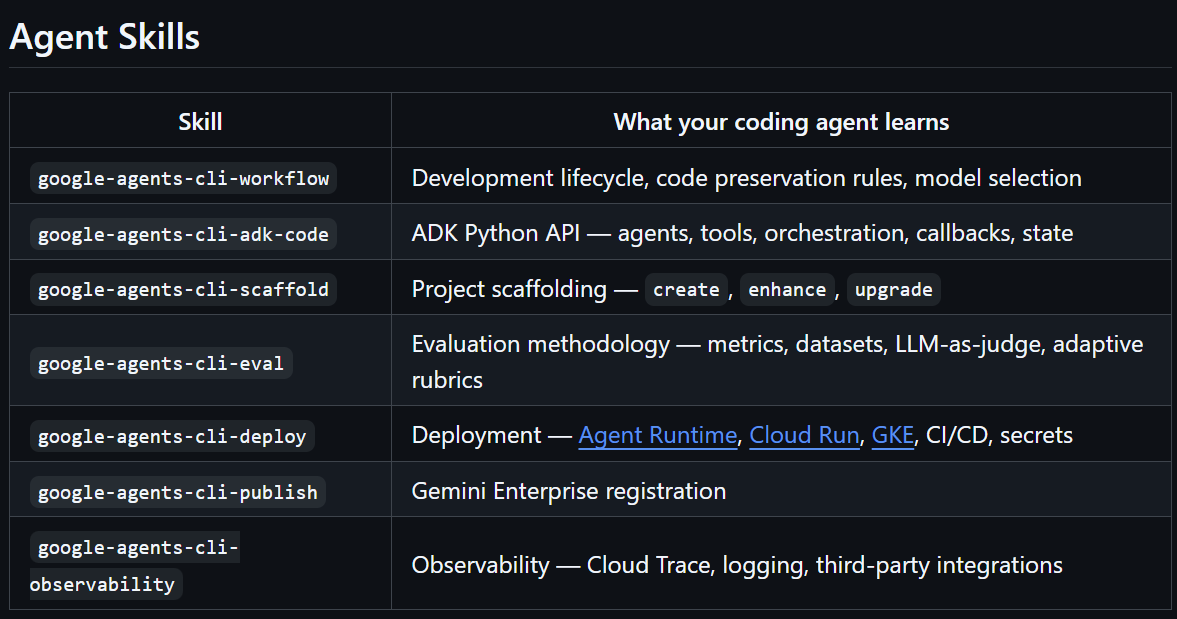
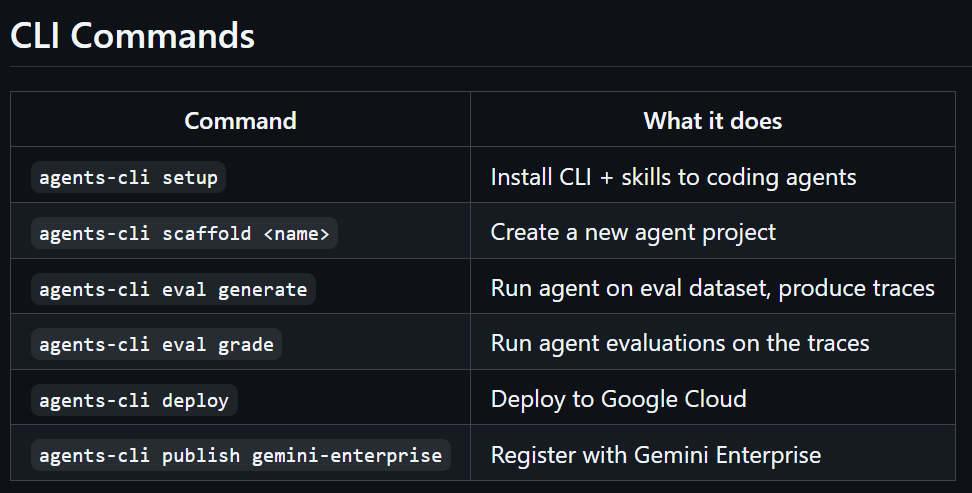
blog part 2 done

diff --git a/docs/blog/part_2_dev_env.md b/docs/blog/part_2_dev_env.md
@@ -1,6 +1,8 @@
 # FinSavant Part 2: Building an Agentic FinOps Platform - Development Environment Setup, Google Antigravity, MCPs and Skills, and ADK Bootstrapping with Agents CLI
 
-**TL;DR - This article is going to be jam-packed with useful information, tips, tricks and hacks for setting up an agentic development in the Google ecosystem. Let's get cracking!**
+**TL;DR - This article is going to be jam-packed with useful information, tips, tricks and hacks for setting up an agentic development in the Google ecosystem.**
+
+This one isn't really about the Fin Ops!
 
 ## Welcome to Part 2
 
@@ -8,9 +10,9 @@
 
 Welcome back, friends!
 
-In the [first part](https://medium.com/google-cloud/finsavant-part-1-building-an-agentic-finops-platform-with-google-adk-a2ui-and-gemini-enterprise-248f59cea3a0) I described the purpose of the [FinSavant](https://github.com/derailed-dash/smart-gcp-finops) FinOps solution, the motivation for creating it, its overall architecture and tech stack, and how it works.
+In the [first part](https://medium.com/google-cloud/finsavant-part-1-building-an-agentic-finops-platform-with-google-adk-a2ui-and-gemini-enterprise-248f59cea3a0), I described the purpose of the [FinSavant](https://github.com/derailed-dash/smart-gcp-finops) FinOps solution, the motivation for creating it, its overall architecture and tech stack, and how it works.
 
-In this part we'll use _FinSavant_ as a case study in **how to set up a development environment** for the purposes of building such an ADK-based agentic solution. **Even if you're not particularly interested in _FinSavant_ itself, I hope you'll find a bunch of useful information and tips here that will help you build your own agentic solutions more effectively and quickly.**
+In this part, we'll use _FinSavant_ as a case study in **how to set up a development environment** for the purposes of building such an ADK-based agentic solution. **Even if you're not particularly interested in _FinSavant_ itself, I hope you'll find a bunch of useful information and tips here that will help you build your own agentic solutions more effectively and quickly.**
 
 We'll cover:
 
@@ -41,11 +43,9 @@ Let's see where we are in this series.
 
 These days, my favourite coding environment _for any significant project_ is Antigravity IDE. This is Google's _agent-first_ integrated development environment. You get a look-and-feel that's familiar to VS Code users, but powered with autonomous, context-aware agents that can plan, execute, verify, and work in parallel.
 
-You can get it [here](https://antigravity.google/product/antigravity-ide).
+You can get it [here](https://antigravity.google/product/antigravity-ide?utm_campaign=DEVECO_GDEMembers&utm_source=deveco).
 
-(I often refer to Antigravity as _Agy_.)
-
-By the way, Agy IDE is just one member of the Agy suite. 
+By the way, Antigravity IDE is just one member of the Antigravity (aka Agy) suite. 
 
 ![The Antigravity Suite](../images/agy-suite-all.jpg)
 
@@ -54,7 +54,7 @@ I've covered these before, but here's a quick reminder of the four Agy solutions
 - **Antigravity 2.0**, which is now the dedicated agent-first “builder” environment on your desktop. Notably, it doesn’t itself include an IDE. Instead, we now interact only with the agent manager. This surface aims to usher in the era of “idea to product” using agents, without concerning ourselves over the code. Many builders who don’t come from a coding background will love this.
 - **Antigravity IDE**, which gives us the more familiar VS Code-esque coding environment, supported by the Antigravity agent harness. Here we can do agent-assisted development, and we always see the code. Coders will feel at home here.
 - **Antigravity SDK**, which gives you the harness and tools that power Antigravity, but exposed as a Python Agent SDK. By importing from google.antigravity we can programmatically leverage Antigravity’s capabilities.
-- **Antigravity CLI**, which is the next evolution of the the extremely awesome Gemini CLI. It’s still a terminal-first environment for interacting with Gemini models. But the new Antigravity CLI is built in Go, and you can tell; it feels much faster than Gemini CLI, both during startup and in general use. It leverages the same agent “harness” as Antigravity 2.0 and the IDE, and this allows for common settings and configuration across the Antigravity suite.
+- **Antigravity CLI**, which is the next evolution of the extremely awesome Gemini CLI. It’s still a terminal-first environment for interacting with Gemini models. But the new Antigravity CLI is built in Go, and you can tell; it feels much faster than Gemini CLI, both during startup and in general use. It leverages the same agent “harness” as Antigravity 2.0 and the IDE, and this allows for common settings and configuration across the Antigravity suite.
 
 ## Project Structure
 
@@ -103,6 +103,7 @@ If you wanted to build such a structure from scratch, here's a cool thing to try
 1. Create your new project folder, e.g. `my-cool-project`
 1. Open that folder in Antigravity IDE.
 1. Supply this prompt to the Agy Agent:
+
    ```/grill-me Using this folder tree as a template, create the 
    required folder structure in this workspace for my new Python project.
    Only create folders and files that are marked as '*'. 
@@ -110,12 +111,12 @@ If you wanted to build such a structure from scratch, here's a cool thing to try
    << paste the tree structure here >>
    ```
 
-Why `/grill-me`?  This is a built-in Agy command that causes the agent to ask questions to remove ambiguity. If you were to give the agent a slightly vague prompt without this prefix, then the agent might make some guesses about what you want. But with `/grill-me`, the agent will still make educated guesses, but it will also ask you questions to clarify your intent.
+Why `/grill-me`? This is a built-in Agy command that causes the agent to ask questions to remove ambiguity. If you were to give the agent a slightly vague prompt without this prefix, then the agent might make some guesses about what you want. But with `/grill-me`, the agent will still make educated guesses, but it will also ask you questions to clarify your intent.
 
 The prompt above is a good example of where this is useful. You'll notice that my project tree has a `LICENSE.md` file, which is a standard component to include in open-source projects. But my prompt doesn't specify which license to use. So when you use `/grill-me`, the agent will offer sensible license choices based on your project and context, and ask you to confirm.
 
 This video demonstrates Agy scaffolding the entire project from scratch, in response to the prompt above:
-[![Agy Scaffolding Demo](https://img.youtube.com/vi/DmnBHilRjOo/maxresdefault.jpg)](https://youtu.be/DmnBHilRjOo)
+[![Agy Scaffolding Demo](https://img.youtube.com/vi/DmnBHilRjOo/maxresdefault.jpg)](https://youtu.be/DmnBHilRjOo?utm_campaign=DEVECO_GDEMembers&utm_source=deveco)
 
 Give it a go!
 
@@ -214,10 +215,10 @@ You should read and leverage these resources for guidance and best practices, in
 
 | Resource | Description and Relevance |
 | -------- | ------------------------- |
-| https://docs.cloud.google.com/bigquery/docs/use-bigquery-mcp | Use the BigQuery MCP server | 
-| https://adk.dev/integrations/bigquery/ | BigQuery tool for ADK |
-| https://docs.cloud.google.com/gemini-enterprise-agent-platform | Gemini Enterprise Agent Platform Overview |
-| https://adk.dev/deploy/agent-runtime | ADK with Agent Runtime |
+| https://docs.cloud.google.com/bigquery/docs/use-bigquery-mcp?utm_campaign=DEVECO_GDEMembers&utm_source=deveco | Use the BigQuery MCP server | 
+| https://adk.dev/integrations/bigquery/?utm_campaign=DEVECO_GDEMembers&utm_source=deveco | BigQuery tool for ADK |
+| https://docs.cloud.google.com/gemini-enterprise-agent-platform?utm_campaign=DEVECO_GDEMembers&utm_source=deveco | Gemini Enterprise Agent Platform Overview |
+| https://adk.dev/deploy/agent-runtime?utm_campaign=DEVECO_GDEMembers&utm_source=deveco | ADK with Agent Runtime |
 [skipping for brevity]
 
 ## Other Notes
@@ -255,7 +256,7 @@ Use maintaining-core-documentation to bootstrap my project documentation.
 
 Check out this video to see the skill doing its magic!
 
-[![Documentation Skill Demo](https://img.youtube.com/vi/fvT_GJ4LPhE/maxresdefault.jpg)](https://youtu.be/fvT_GJ4LPhE)
+[![Documentation Skill Demo](https://img.youtube.com/vi/fvT_GJ4LPhE/maxresdefault.jpg)](https://youtu.be/fvT_GJ4LPhE?utm_campaign=DEVECO_GDEMembers&utm_source=deveco)
 
 As you evolve your project, this skill will automatically maintain your documentation.
 
@@ -263,8 +264,8 @@ As you evolve your project, this skill will automatically maintain your document
 
 I've previously written about [some of my favourite MCP servers](https://medium.com/google-cloud/dialling-our-agents-to-11-my-favourite-mcp-servers-9549c1442a5e). There are only a couple that we'll need for this project:
 
-- [Google BigQuery Remote MCP Server](https://docs.cloud.google.com/bigquery/docs/use-bigquery-mcp)
-- [ADK Docs MCP](https://adk.dev/tutorials/coding-with-ai/#adk-docs-mcp-server)
+- [Google BigQuery Remote MCP Server](https://docs.cloud.google.com/bigquery/docs/use-bigquery-mcp?utm_campaign=DEVECO_GDEMembers&utm_source=deveco)
+- [ADK Docs MCP](https://adk.dev/tutorials/coding-with-ai/?utm_campaign=DEVECO_GDEMembers&utm_source=deveco#adk-docs-mcp-server)
 
 Note that we won't be using either of these in the _FinSavant_ agent itself. These are purely to help us during development.
 
@@ -315,7 +316,7 @@ You can see the agent immediately finds the MCP server and asks for permission t
 
 ![BQ MCP response](../images/bq-mcp-response.png)
 
-Nice! You can see helpful this is going to be.
+Nice! You can see how helpful this is going to be.
 
 ## Scaffolding Your ADK Agent
 
@@ -327,7 +328,7 @@ The easiest way to scaffold a new ADK agent is to make use of **Google Agents CL
 
 - An associated set of **agent skills** that turn your development agent into an expert in using Agents CLI.
 
-  ![agents-cli skills](../images/agents-cli-commands.png)
+  ![agents-cli skills](../images/agents-cli-skills.png)
 
 You install the bundle using this one-time command:
 
@@ -351,6 +352,8 @@ agents-cli scaffold create agent \
   --prototype \
   --agent-directory finops_agent 
 ```
+
+![agents-cli create](../images/adk-create.png)
 
 You'll end up with the following inside of your workspace folder:
 
@@ -384,19 +387,17 @@ agent/
 └── GEMINI.md                     # Guidance file for coding agents
 ```
 
-![agents-cli create](../images/adk-create.png)
-
 But since we now have the skills installed, there's an easier way to accomplish this, that doesn't require you to check the CLI documentation...
 
 ```text
-Please bootstrap a new ADK agent project. The agent top-level project should be named `agent`, and it should should contain a root `agent-directory` called `finops_agent`, NOT the default of `app`. This means pyproject.toml and other config files will live under agent/, and all Python source files (like agent.py and fast_api_app.py) will live inside inside agent/finops_agent/.
+Please bootstrap a new ADK agent project. The agent top-level project should be named `agent`, and it should contain a root `agent-directory` called `finops_agent`, NOT the default of `app`. This means `pyproject.toml` and other config files will live under `agent/`, and all Python source files (like `agent.py` and `fast_api_app.py`) will live inside `agent/finops_agent/`.
 ```
 
 Sure, this prompt is quite detailed, but I'm after a very specific folder structure.
 
 Let's see a live demo...
 
-[![Agents-CLI ADK scaffolding demo](https://img.youtube.com/vi/wxMK7MJwHqA/maxresdefault.jpg)](https://youtu.be/wxMK7MJwHqA)
+[![Agents-CLI ADK scaffolding demo](https://img.youtube.com/vi/wxMK7MKwHqA/maxresdefault.jpg)](https://youtu.be/wxMK7MJwHqA?utm_campaign=DEVECO_GDEMembers&utm_source=deveco)
 
 As you can see from the demo, we can now use `agents-cli` to check if our newly scaffolded agent is working.
 
@@ -409,7 +410,7 @@ agents-cli run "Hello! Who are you?"
 
 ![agents-cli run](../images/agents-cli-run.png)
 
-Or, we could run up the extremely powerful and useful **ADK Web** interface, using this handly shortcut:
+Or, we could run up the extremely powerful and useful **ADK Web** interface, using this handy shortcut:
 
 ```bash
 # From the agent folder
@@ -417,6 +418,8 @@ agents-cli playground
 ```
 
 ![agents-cli playground](../images/agents-cli-adk-web.png)
+
+Concluding thought about `Agents-CLI`: if you know your way around the CLI, you can use it directly. It'll be faster and use fewer tokens. But when you're doing lots of agent related activities like boostrapping, adding CI/CD, deploying and evaluating, you'll probably find that natural language conversations are going to save you a lot of time and pain.
 
 ## Bonus #1: Getting Started with a Makefile
 
@@ -468,7 +471,7 @@ This script:
 5. **Synchronises Python dependencies**: Runs `uv sync` to ensure all standard, development, and notebook dependencies are installed in the local environment.
 6. **Activates the virtual environment**: Activates the local Python virtual environment (`.venv`) so the user is immediately ready to run code.
 
-You can find a copy of this `scripts/setup-env.sh` in my [GitHub repository](https://github.com/derailed-dash/smart-gcp-finops/blob/main/scripts/setup-env.sh). Because it uses standard environment variables defined in your `.env`, you can use it any of your Google projects!
+You can find a copy of this `scripts/setup-env.sh` in my [GitHub repository](https://github.com/derailed-dash/smart-gcp-finops/blob/main/scripts/setup-env.sh). Because it uses standard environment variables defined in your `.env`, you can use it in any of your Google projects!
 
 You run it from the project root directory like this:
 
@@ -487,26 +490,15 @@ By placing a `.envrc` file at the root of the project, `direnv` automatically ex
 Here is what our `.envrc` looks like:
 
 ```bash
-if [ ! -d ".venv" ]; then
-  uv venv
-fi
 
-# Check if gcloud token is still valid to avoid re-authenticating
-if gcloud auth print-access-token --quiet > /dev/null 2>&1; then
-  echo "gcloud token is valid, skipping authentication."
-  source scripts/setup-env.sh --noauth
-else
-  echo "gcloud token is not valid, re-authenticating."
-  source scripts/setup-env.sh
-fi
 ```
 
 This configuration does a few smart things:
 1. **Bootstraps the virtual environment**: Automatically initialises a virtual environment using `uv venv` if it doesn't already exist.
 2. **Verifies active Google session**: Runs `gcloud auth print-access-token` silently to check if our Google Cloud session is active.
-3. **Smart sourcing**: If the Google Cloud session is still valid, it sources the setup-env script with the `--noauth` flag, avoiding repetitive and annoying browser login prompts. If the session has expired, it triggers the full setup script to re-authenticate.
+3. **Conditionally sources configuration**: If the Google Cloud session is still valid, it sources the setup-env script with the `--noauth` flag, avoiding repetitive and annoying browser login prompts. If the session has expired, it triggers the full setup script to re-authenticate.
 
-There's a couple of one-off steps we have to do to get `direnv` up and running:
+There are a couple of one-off steps we have to do to get `direnv` up and running:
 
 1. Install `direnv`. On Debian/Ubuntu systems, this is `sudo apt install direnv`.
 2. Allow _this_ folder for `direnv`. Run `direnv allow` in the terminal, in the project folder where we've placed our `.envrc` file.
@@ -523,11 +515,12 @@ Okay, we're done with the environment setup. We've:
 
 - Setup Google Antigravity, along with some killer skills and MCP servers
 - Bootstrapped our project using the Agy agent
+- Played with `/grill-me`
 - Established an initial set of core project documentation, using a custom skill
-- Used the Agy agent to bootstrap an AKD agent, making use of `agents-cli` and its skills
+- Used the Agy agent to bootstrap an ADK agent, making use of `agents-cli` and its skills
 - Created a `Makefile` for standardising common development, testing and deployment tasks
 - Created a `scripts/setup-env.sh` script for setting up our Google Cloud environment
-- Used `direnv` and a `.envrc` file to automate the setup process, everytime we open a terminal in this directory
+- Used `direnv` and a `.envrc` file to automate the setup process, every time we open a terminal in this directory
 
 In the next part, we'll look at the actual code for our _FinSavant_ agents and tools!
 
@@ -538,7 +531,7 @@ See you there!
 ### Project Demo & Portfolio
 
 - [FinSavant on GitHub](https://github.com/derailed-dash/smart-gcp-finops)
-- [FinSavant YouTube Demo](https://youtu.be/zs_IRUxIx4E)
+- [FinSavant YouTube Demo](https://youtu.be/zs_IRUxIx4E?utm_campaign=DEVECO_GDEMembers&utm_source=deveco)
 - [Dazbo's Portfolio](https://dazbo.co.uk)
 
 ### Gemini Enterprise Agent Platform & ADK

diff --git a/docs/blog.md b/docs/blog.md
@@ -5,7 +5,6 @@
 We have Cloud Billing Exports into a BQ dataset.
 
 ## Setup
-8. Created `scripts/setup-env.sh` and `.envrc` to automatically run this.
 11. Used `deep-research` skill, along with adk-docs-mcp, to investigate best practices for React UI with ADK. Updated GEMINI.md with the findings.
 12. Performed documentation review with my `project-documentation` skill.
 13. Update tfvars for dev and prod in `/deployment/terraform/`
@@ -312,8 +311,6 @@ Here is the transcript of the manual verification session:
 1. The agent first used the `bigquery-mcp-server_execute_sql` tool to run a SQL query against the billing export table to identify the resources.
 2. It then extracted the resource names from the BigQuery results and passed them directly to our new `get_cai_metadata_for_resources` tool.
 3. The CAI tool fetched the live operational metadata, confirming all three were currently "Active".
-
----
 
 **User Prompt 3 (The Audit):**
 > "Look at these three services and look for spikes in the last 3 months."
